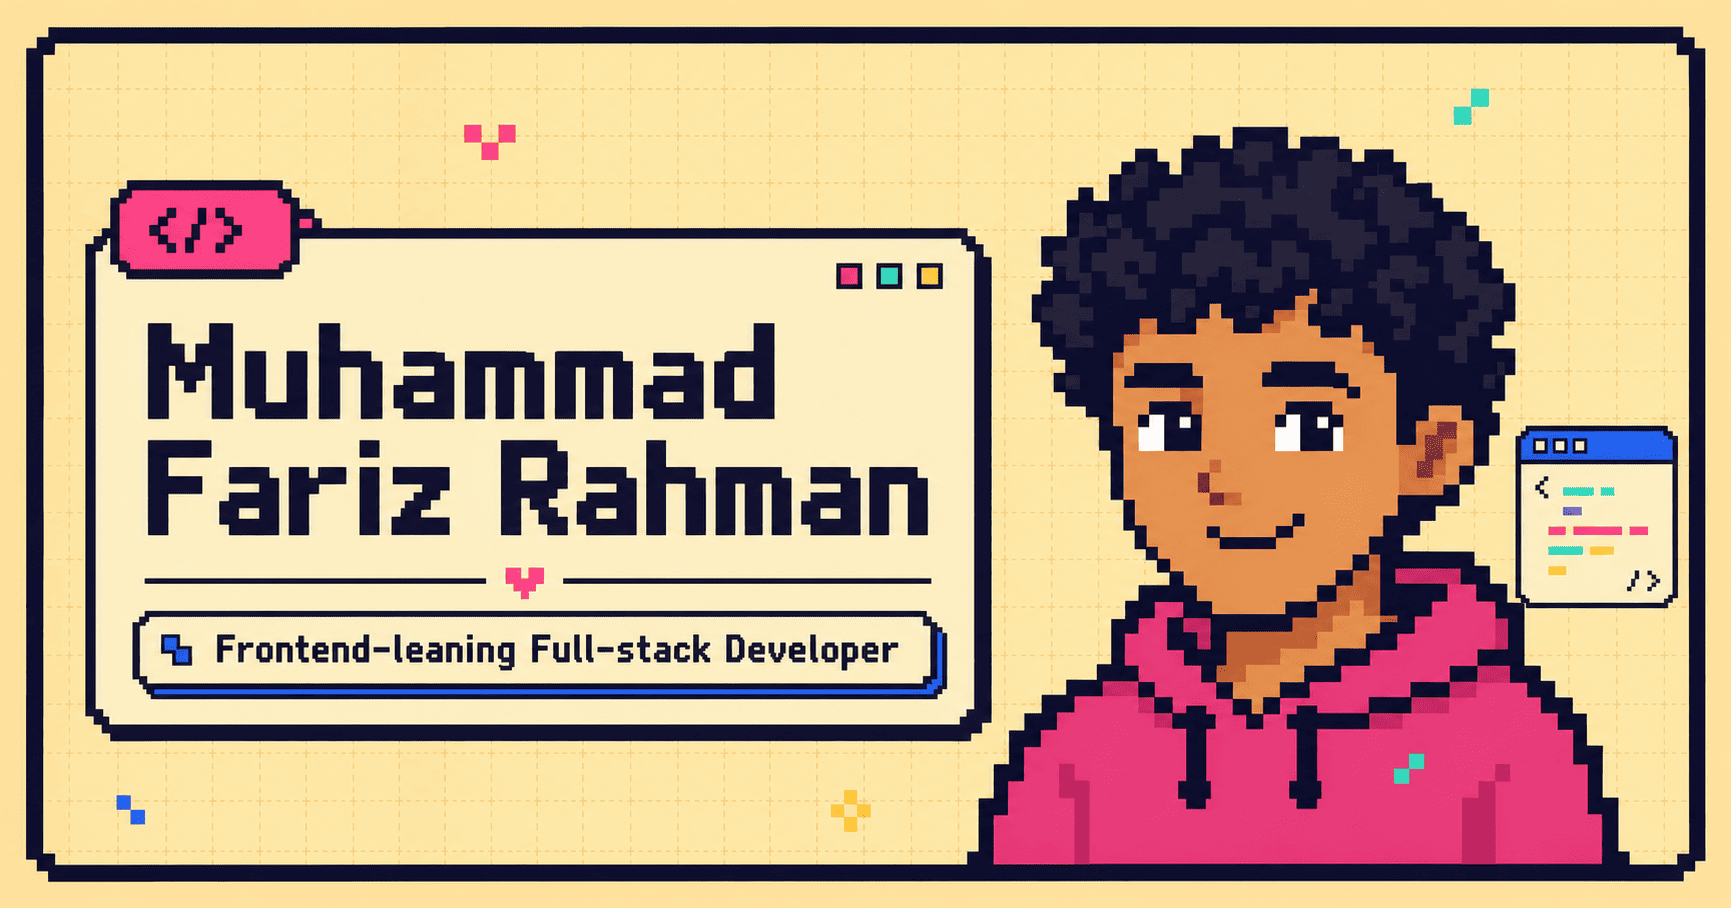
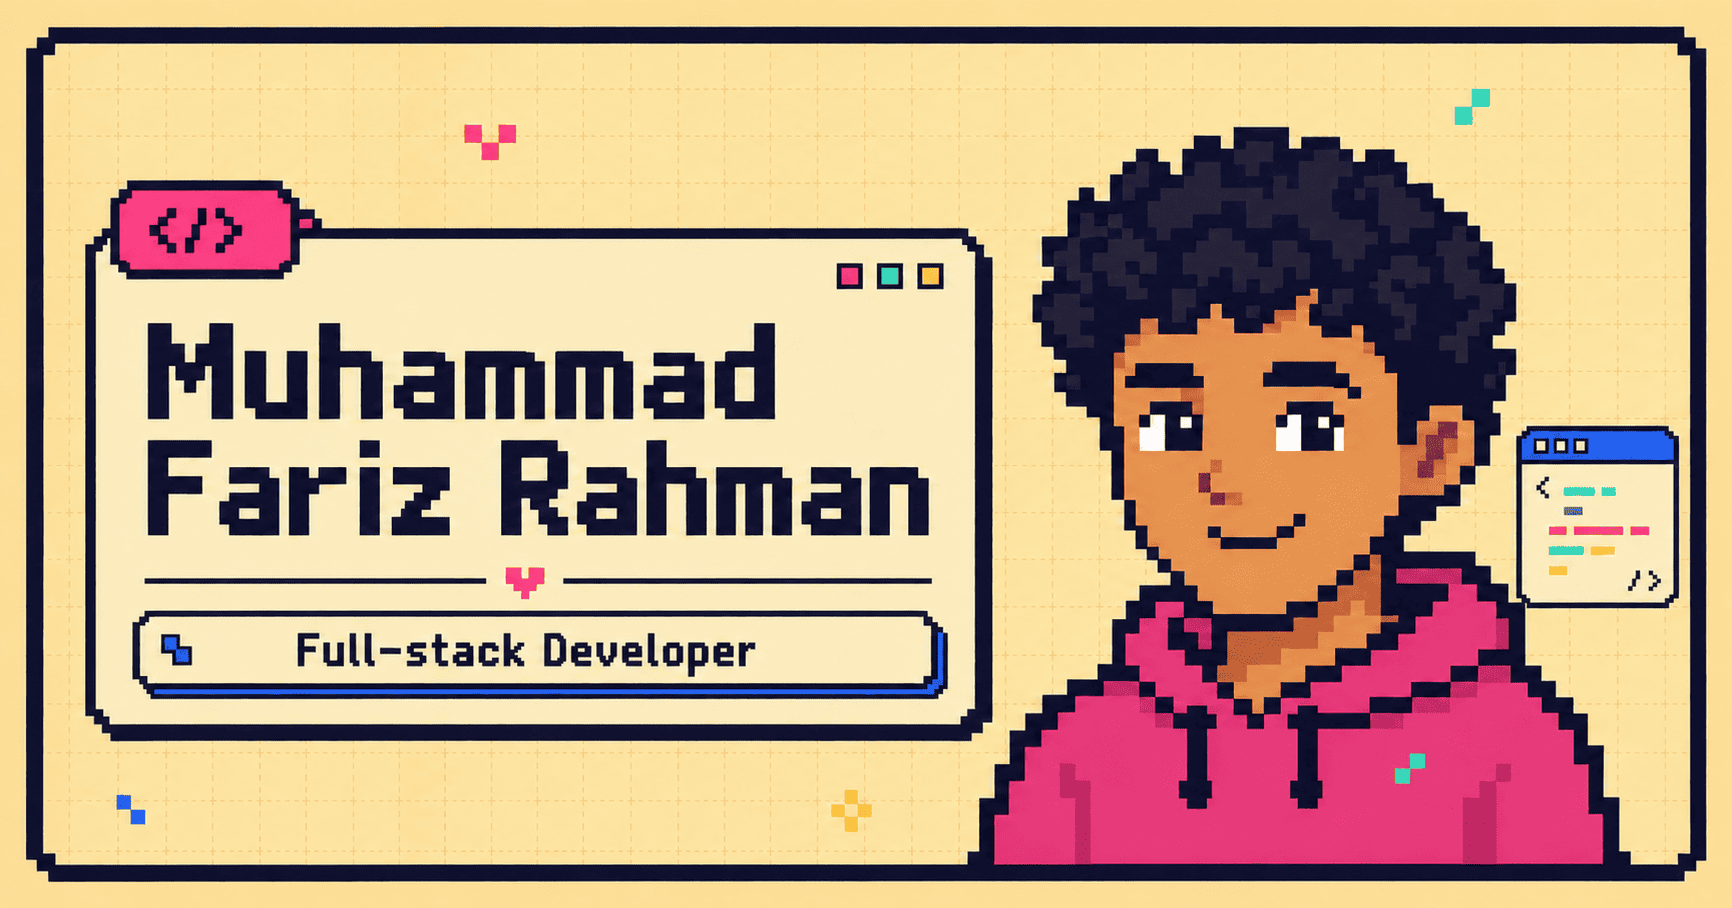
Update content

diff --git a/src/lib/constants.ts b/src/lib/constants.ts
@@ -13,9 +13,9 @@ export const SOCIAL_MEDIA_ICONS = {
 };
 
 export const HERO = {
-  headline: "Frontend-leaning Full-stack Developer",
+  headline: "Full-stack Developer",
   subHeadline:
-    "Based in Indonesia, crafting user-centric interfaces with React, Next.js, and modern web tech.",
+    "Based in Indonesia, building polished, reliable web experiences across the stack with TypeScript, React, Next.js, and Node.js.",
 };
 
 export const SOCIAL_MEDIAS = [
@@ -25,13 +25,13 @@ export const SOCIAL_MEDIAS = [
   { name: "LinkedIn", link: "https://linkedin.com/in/ayisrhmn" },
 ];
 
-export const ABOUT = `I'm **Muhammad Fariz Rahman** — a Frontend-leaning Full-stack Developer based in Indonesia.
+export const ABOUT = `I'm **Muhammad Fariz Rahman** — a Full-stack Developer based in Indonesia.
 
-I’m passionate about crafting accessible, fast, and visually refined interfaces that balance clean design with solid engineering. Over the past **7+ years**, I’ve focused on building seamless experiences across web and mobile using **React**, **Next.js**, and **Ionic**, while occasionally exploring **React Native** and **Nuxt**.
+I’m passionate about building accessible, fast, and visually refined digital experiences that balance thoughtful design with solid engineering. Over the past **7+ years**, I’ve built seamless experiences across web and mobile using **React**, **Next.js**, and **Ionic**, while also working with **React Native** and **Nuxt**.
 
-Though my main expertise lies in frontend, I’ve also worked with **Express**, **Fastify**, and **NestJS** on several projects, along with databases like **PostgreSQL**, **MySQL**, and **MongoDB** — giving me a broader understanding of full-stack workflows and system design.
+Alongside my frontend experience, I’ve worked across the backend with **NestJS**, **Express**, and **Fastify**, as well as databases like **PostgreSQL**, **MySQL**, and **MongoDB**. This has given me a broader perspective on full-stack development, from building polished user interfaces to designing APIs, working with data, and thinking through system architecture.
 
-My approach to development combines **attention to detail**, **performance**, and **usability**, ensuring that every product I work on feels intuitive, reliable, and built to last.
+My approach to development combines **attention to detail**, **performance**, and **maintainability**, with a focus on building products that are intuitive, reliable, and built to last.
 
 When I’m not coding, I usually spend my time learning new web technologies, refining side projects, or catching up with games and chill playlists.`;
 
@@ -42,7 +42,7 @@ export const EXPERIENCES = [
     company: "Native Productions",
     link: "https://nvpdev.tech",
     description: `I build modern web and mobile applications using **React, Next.js, and Ionic**, transforming product ideas into clean and intuitive user interfaces. I focus on optimizing performance to ensure applications run smoothly even at scale, while collaborating closely with C-Level, backend engineers and product teams to deliver reliable, high-quality features.`,
-    skills: ["Next.js", "Ionic", "TypeScript", "NestJS", "PostgreSQL"],
+    skills: ["TypeScript", "Next.js", "Ionic", "NestJS", "PostgreSQL"],
   },
   {
     period: "Oct 2020 — Mar 2026",
@@ -50,7 +50,7 @@ export const EXPERIENCES = [
     company: "Kano Solution",
     link: "https://kanosolution.com",
     description: `I develop and scale web applications across multiple projects, focusing on building and maintaining clean, scalable frontend architectures. I work within the **Vue.js, Nuxt.js, and React ecosystems**, ensuring high code quality while keeping performance and long-term maintainability in check.`,
-    skills: ["Vue.js", "Nuxt.js", "React Native", "TypeScript", "Go", "MongoDB"],
+    skills: ["TypeScript", "Vue.js", "Nuxt.js", "React Native", "Go", "MongoDB"],
   },
   {
     period: "Nov 2023 — Oct 2024",
@@ -58,7 +58,7 @@ export const EXPERIENCES = [
     company: "PT HM Sampoerna Tbk.",
     link: "https://www.sampoerna.com",
     description: `I set up automated testing for both web and Android applications, ensuring product quality through comprehensive end-to-end testing flows. My focus is on catching issues early in the development process so they don’t make it to production.`,
-    skills: ["WebdriverIO", "Jenkins", "JavaScript"],
+    skills: ["JavaScript", "WebdriverIO", "Jenkins"],
   },
   {
     period: "Sep 2018 — Oct 2020",
@@ -66,7 +66,7 @@ export const EXPERIENCES = [
     company: "Genesys Integrated Indonesia",
     link: "https://genesysindonesia.com",
     description: `I build web applications using **Vue.js and Laravel**, creating reusable components and clean, intuitive user interfaces. I also support product needs by delivering reliable features that align with overall functionality and user experience.`,
-    skills: ["Vue.js", "JavaScript", "Laravel", "MySQL"],
+    skills: ["JavaScript", "Vue.js", "Laravel", "MySQL"],
   },
 ];
 
@@ -76,7 +76,7 @@ export const PROJECTS = [
     description:
       "Part of a development team building a AI content generator platform. Focused on engineering high-performance Next.js interfaces and scaling backend services with NestJS to handle content generation.",
     image: "/projects/mager-ai.png",
-    tags: ["Next.js", "TypeScript", "NestJS", "PostgreSQL"],
+    tags: ["TypeScript", "Next.js", "NestJS", "PostgreSQL"],
     github: null,
     demo: "https://mageran.ai/home",
   },
@@ -85,7 +85,7 @@ export const PROJECTS = [
     description:
       "Part of a development team building a AI-powered video clipping platform. Focused on engineering high-performance Next.js interfaces and scaling backend services with NestJS to handle content generation.",
     image: "/projects/mager-klip.png",
-    tags: ["Next.js", "TypeScript", "NestJS", "PostgreSQL"],
+    tags: ["TypeScript", "Next.js", "NestJS", "PostgreSQL"],
     github: null,
     demo: "https://klip.mageran.ai",
   },
@@ -94,7 +94,7 @@ export const PROJECTS = [
     description:
       "Part of a development team building a unified LMS ecosystem. Developed scalable frontend structures with Next.js and TypeScript, delivering a high-performance and accessible platform through consistent, reusable UI components.",
     image: "/projects/nativy.png",
-    tags: ["Next.js", "TypeScript"],
+    tags: ["TypeScript", "Next.js", "NestJS", "PostgreSQL"],
     github: null,
     demo: "https://nativeacademy.id",
   },
@@ -103,17 +103,8 @@ export const PROJECTS = [
     description:
       "AI-powered Telegram bot that analyzes food photos and estimates calories instantly. Simply send a meal photo and receive an estimated calorie breakdown in seconds.",
     image: "/projects/kalori-bot.png",
-    tags: ["Telegram Bot", "Node.js", "Telegraf", "OpenRouter"],
+    tags: ["Telegram Bot", "JavaScript", "Node.js", "Telegraf", "OpenRouter"],
     github: "https://github.com/ayisrhmn/calorie-telegram-bot",
     demo: "https://t.me/id_kalori_bot",
   },
-  // {
-  //   title: "IngreAI — Ingredients Intelligence",
-  //   description:
-  //     "AI-Powered Ingredient Scanner & Recipe Generator. Scan your ingredients and get smart recipe suggestions instantly.",
-  //   image: "/projects/ingre-ai.jpg",
-  //   tags: ["Next.js", "TypeScript", "Gemini 2.0 Flash Lite"],
-  //   github: "https://github.com/ayisrhmn/ingre-ai",
-  //   demo: "https://ingre-ai.vercel.app",
-  // },
 ];

diff --git a/src/cfgs/seo.cfg.ts b/src/cfgs/seo.cfg.ts
@@ -1,6 +1,6 @@
 import { Metadata } from "next";
 
-export const APP_TITLE = "Muhammad Fariz Rahman — Frontend-leaning Full-stack Developer";
+export const APP_TITLE = "Muhammad Fariz Rahman — Full-stack Developer";
 export const APP_DESC = "My portfolio website showcasing my projects and experience";
 export const APP_URL = "https://ayisrhmn.vercel.app";
 export const APP_NAME = "Muhammad Fariz Rahman";
@@ -135,9 +135,8 @@ export const JSON_LD = {
         width: 1200,
         height: 630,
       },
-      jobTitle: "Frontend-leaning Full-stack Developer",
-      description:
-        "Frontend-leaning Full-stack Developer specializing in React, Next.js, and TypeScript",
+      jobTitle: "Full-stack Developer",
+      description: "Full-stack Developer specializing in TypeScript, React, and Node.js",
       knowsAbout: [
         "Frontend Development",
         "React",
